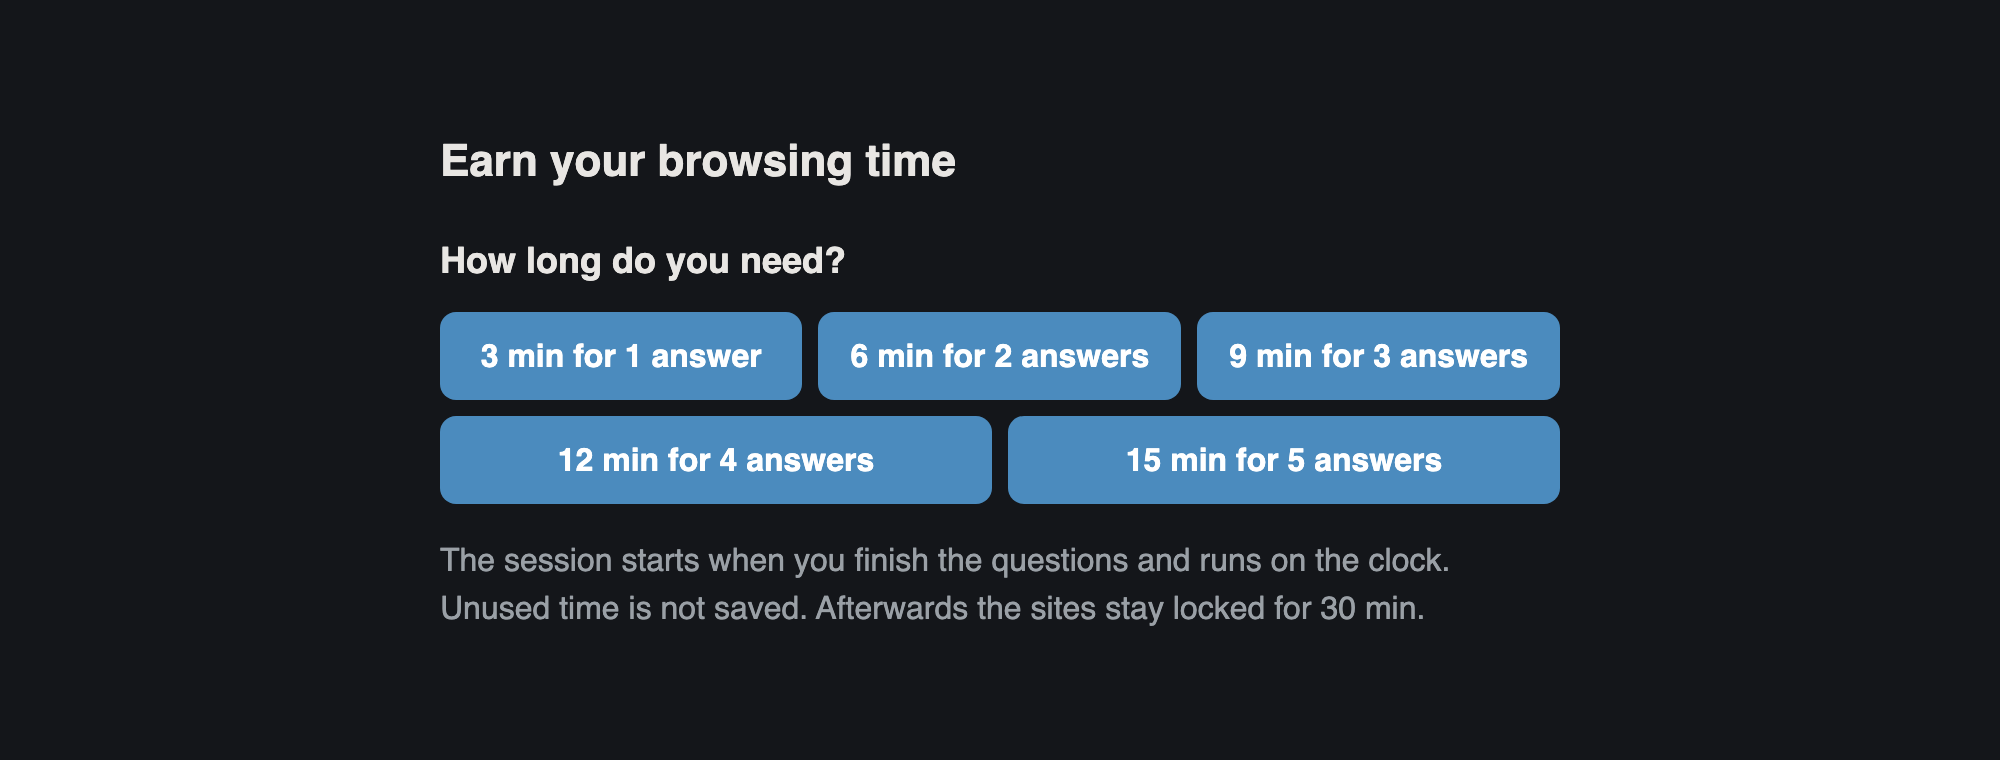
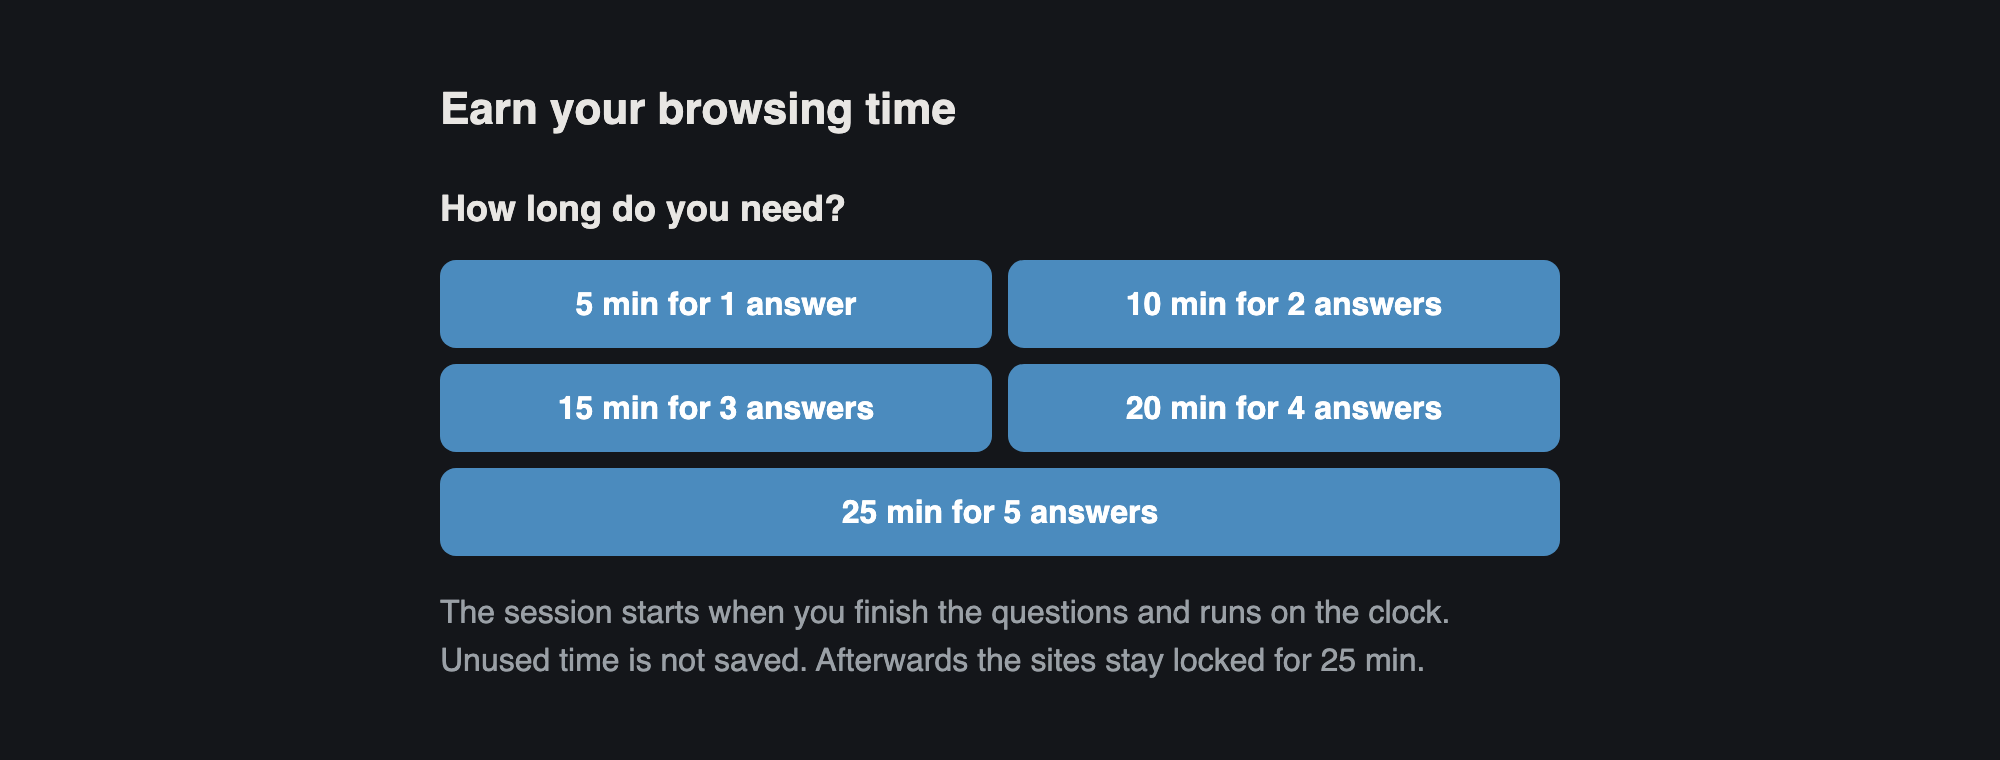
feat: gentler defaults and a softer challenge
- Default to 5 minutes per correct answer and a 25-minute cooldown
- Loosening the gate takes 3 correct answers in a row, with a second try per question
- README and screenshots updated; version 1.2

diff --git a/tests/smoke_test.js b/tests/smoke_test.js
@@ -1,7 +1,7 @@
 // Runs the quiz (content.js) and the popup (popup.js) against a fake page and a
 // fake chrome.storage, and checks the behaviour end to end: choosing a session,
 // retry, countdown, cooldown, daily limit, schedule, harder questions, the
-// toolbar badge, the 5-in-a-row challenge and backups. Needs only Node. Run from anywhere: node tests/smoke_test.js
+// toolbar badge, the 3-in-a-row challenge and backups. Needs only Node. Run from anywhere: node tests/smoke_test.js
 const fs = require("fs"), path = require("path"), vm = require("vm"), assert = require("assert");
 const ext = path.resolve(__dirname, "..");
 const read = (f) => fs.readFileSync(`${ext}/${f}`, "utf8");
@@ -69,7 +69,7 @@ const settle = () => new Promise((r) => setImmediate(r));
 
 (async () => {
   // ---------- content.js ----------
-  const store = { minutes: 3 };
+  const store = { minutes: 3, cooldown: 30 };
   const env = makeEnv(store);
   load(env, ["sites.js", "questions.js", "content.js"]);
   // remember the last question asked, so the test can answer it correctly
@@ -220,7 +220,7 @@ const settle = () => new Promise((r) => setImmediate(r));
   assert.equal(env2.created.length, 0, "no overlay on unlisted site");
 
   // ---------- popup.js ----------
-  const pstore = { minutes: 3, dailyCap: 30, stats: { weights: {}, recent: { Lists: "1101" }, harder: ["Lists"], days: {} } };
+  const pstore = { minutes: 3, cooldown: 30, dailyCap: 30, stats: { weights: {}, recent: { Lists: "1101" }, harder: ["Lists"], days: {} } };
   const penv = makeEnv(pstore, { url: "https://www.example.org/page" });
   load(penv, ["sites.js", "questions.js", "popup.js"]);
   await settle();
@@ -248,7 +248,7 @@ const settle = () => new Promise((r) => setImmediate(r));
   $("save").fire("click"); await settle();
   assert.equal(pstore.minutes, 2); assert.equal(pstore.dailyCap, 20); assert(penv.closed);
 
-  // loosening needs 5 in a row; a miss restarts the count
+  // loosening needs 3 in a row; each question allows a second try, and two misses restart the count
   const p2 = makeEnv(pstore, { url: "https://www.youtube.com/" });
   load(p2, ["sites.js", "questions.js", "popup.js"]);
   await settle();
@@ -260,17 +260,25 @@ const settle = () => new Promise((r) => setImmediate(r));
   assert($2("main").hidden && !$2("challenge").hidden, "challenge shown");
   assert.equal(pstore.minutes, 2, "not saved yet");
   const reply = (right) => { $2("challenge-input").value = right ? p2.__q.accept[0] : "wrong!"; $2("challenge-form").fire("submit"); };
+  const shown = () => $2("challenge-progress").textContent;
   $2("challenge-form").fire("submit"); // empty: ignored
-  // first question was asked before the wrapper existed; miss it to move on
-  reply(false); assert(/0 of 5/.test($2("challenge-progress").textContent));
+  // the first question was asked before the wrapper existed, so miss it twice to move on
+  reply(false);
+  assert.equal($2("challenge-feedback").textContent, "Not quite. Try once more.");
+  reply(false);
+  assert(/The count restarts/.test($2("challenge-feedback").textContent));
   $2("challenge-form").fire("submit"); // next question
-  reply(true); reply(true); reply(true); reply(false);
-  assert(/0 of 5/.test($2("challenge-progress").textContent));
+  reply(true); reply(true);
+  assert.equal(shown(), "2 of 3 in a row");
+  reply(false); reply(false);
+  assert.equal(shown(), "0 of 3 in a row", "two misses restart the count");
   $2("challenge-form").fire("submit");
-  for (let i = 0; i < 4; i++) reply(true);
-  assert.equal(pstore.minutes, 2, "4 in a row is not enough");
+  reply(true);
+  reply(false); reply(true);
+  assert.equal(shown(), "2 of 3 in a row", "a right second try keeps the run going");
+  assert.equal(pstore.minutes, 2, "2 in a row is not enough");
   reply(true); await settle();
-  assert.equal(pstore.minutes, 10, "saved after 5 in a row");
+  assert.equal(pstore.minutes, 10, "saved after 3 in a row");
 
   // removing a site also needs the challenge
   const p3 = makeEnv(pstore, { url: "https://www.youtube.com/" });

diff --git a/popup.js b/popup.js
@@ -2,24 +2,26 @@
 // progress and manage the block list.
 
 const $ = (id) => document.getElementById(id);
-const STREAK_NEEDED = 5; // correct answers in a row needed to loosen the gate
+const STREAK_NEEDED = 3; // correct answers in a row needed to loosen the gate
 
 let state;
 
 // Shows a short quiz in place of the popup. `apply` runs only after
-// STREAK_NEEDED correct answers in a row; a wrong answer restarts the count.
+// STREAK_NEEDED correct answers in a row. As in the main quiz, each question
+// allows a second try; two misses on one question restart the count.
 function challenge(what, apply) {
-  let run = 0, question, showingAnswer = false;
+  let run = 0, question, phase; // phase: "ask" (first try), "retry" (second try) or "shown" (answer revealed)
   $("main").hidden = true;
   $("challenge").hidden = false;
   $("challenge-what").textContent = `To ${what}.`;
 
   const ask = () => {
     question = makeQuestion(state.onlyTopics, state.stats.weights, state.stats.harder);
-    showingAnswer = false;
+    phase = "ask";
     $("challenge-prompt").textContent = promptFor(question);
     $("challenge-code").textContent = question.code;
     $("challenge-input").value = "";
+    $("challenge-feedback").textContent = "";
     $("challenge-submit").textContent = "Check";
     $("challenge-progress").textContent = `${run} of ${STREAK_NEEDED} in a row`;
     $("challenge-input").focus();
@@ -27,19 +29,20 @@ function challenge(what, apply) {
 
   $("challenge-form").addEventListener("submit", (event) => {
     event.preventDefault();
-    if (showingAnswer) {
-      $("challenge-feedback").textContent = "";
-      return ask();
-    }
+    if (phase === "shown") return ask();
     if (!$("challenge-input").value.trim()) return;
 
     if (isCorrect($("challenge-input").value, question.accept)) {
       run++;
-      $("challenge-feedback").textContent = "";
       return run === STREAK_NEEDED ? apply() : ask();
     }
+    if (phase === "ask") {
+      phase = "retry";
+      $("challenge-feedback").textContent = "Not quite. Try once more.";
+      return $("challenge-input").select();
+    }
     run = 0;
-    showingAnswer = true;
+    phase = "shown";
     $("challenge-feedback").textContent = `Not quite, ${answerLabel(question)}: ${question.answer}\nThe count restarts.`;
     $("challenge-submit").textContent = "Next question";
     $("challenge-progress").textContent = `0 of ${STREAK_NEEDED} in a row`;

diff --git a/popup.html b/popup.html
@@ -57,7 +57,7 @@
     <div class="row"><span class="hours">From <input id="from" type="time"> to <input id="to" type="time"></span></div>
     <div class="row"><label><input id="weekdays" type="checkbox"> Monday to Friday only</label></div>
     <button id="save" class="small">Save settings</button>
-    <p class="hint">Loosening the gate (more minutes, a shorter cooldown, a higher limit, fewer gated hours, removing a site) takes 5 correct answers in a row.</p>
+    <p class="hint">Loosening the gate (more minutes, a shorter cooldown, a higher limit, fewer gated hours, removing a site) takes 3 correct answers in a row.</p>
 
     <h2>Topics</h2>
     <p class="hint">Tick topics to practise only those. With none ticked, questions come from all topics. Scores cover your last 20 answers per topic. At 17 right, harder questions join in, and each counts as two answers.</p>
@@ -72,7 +72,7 @@
   </div>
 
   <div id="challenge" hidden>
-    <h1>Answer 5 in a row</h1>
+    <h1>Answer 3 in a row</h1>
     <p id="challenge-what" class="muted"></p>
     <h2 id="challenge-prompt"></h2>
     <pre id="challenge-code"></pre>

diff --git a/sites.js b/sites.js
@@ -6,8 +6,8 @@ const DEFAULT_SITES = ["x.com", "twitter.com", "youtube.com", "uol.com.br", "red
 // Everything the extension keeps in Chrome's local storage, with starting values.
 const DEFAULTS = {
   sites: DEFAULT_SITES,
-  minutes: 3,        // session minutes bought by each correct answer
-  cooldown: 30,      // minutes the sites stay locked after a session; 0 means none
+  minutes: 5,        // session minutes bought by each correct answer
+  cooldown: 25,      // minutes the sites stay locked after a session; 0 means none
   sessionEnd: 0,     // time (ms) when the current or last session ends
   used: { day: "", ms: 0 },  // session time started on that day, for the daily limit
   dailyCap: 0,       // most minutes of browsing per day; 0 means no limit

diff --git a/README.md b/README.md
@@ -11,11 +11,11 @@ The idea comes from a [post by @keysmashbandit](https://x.com/keysmashbandit/sta
 ## How it works
 
 - A blocked site opens behind a full-page screen that asks how long you need
-- Each length has a price in correct answers. By default 1 answer buys 3 minutes, up to 15 minutes for 5 answers
+- Each length has a price in correct answers. By default 1 answer buys 5 minutes, up to 25 minutes for 5 answers
 - After a wrong answer you get one more try, and a right answer there still counts. After a second miss the quiz shows the answer with a one-line explanation
 - The session starts when you finish the questions and runs on the clock, with a countdown in the bottom-right corner
 - Leaving the site does not pause the session, and unused time is not saved
-- When the session ends, every blocked site locks for a 30-minute cooldown. No quiz is offered during it
+- When the session ends, every blocked site locks for a 25-minute cooldown. No quiz is offered during it
 - All blocked sites share the same session and cooldown
 - On a blocked site, the toolbar icon shows the minutes left: blue for the session, grey for the cooldown
 
@@ -47,15 +47,15 @@ Click the Python Gate icon to open the popup. Change the settings there, then pr
 
 | Setting | Default | What it does |
 |---------|---------|--------------|
-| Minutes per correct answer | 3 | Session time bought by each correct answer, from 1 to 60 |
-| Cooldown after a session | 30 | Minutes the sites stay locked after a session. 0 means no cooldown |
+| Minutes per correct answer | 5 | Session time bought by each correct answer, from 1 to 60 |
+| Cooldown after a session | 25 | Minutes the sites stay locked after a session. 0 means no cooldown |
 | Daily browsing limit | none | Most session minutes you can start per day |
 | Gate only during set hours | off | Hours when the gate is on. When off, the gate is always on |
 | Monday to Friday only | off | Leaves weekends open. It applies when set hours are on |
 
 The set hours can run past midnight, such as 22:00 to 06:00. Outside them, blocked sites open normally.
 
-Changes that tighten the gate save at once. Changes that loosen it take 5 correct answers in a row:
+Changes that tighten the gate save at once. Changes that loosen it take 3 correct answers in a row, with a second try allowed on each question:
 
 - more minutes per answer
 - a shorter cooldown
@@ -132,7 +132,7 @@ Chrome switches extensions off in Incognito windows unless you allow them, so th
 | Script | What it checks | Needs |
 |--------|----------------|-------|
 | `tests/check_answers.py` | Runs 300 versions of every question in real Python and compares the output with the extension's answer. Also checks topic selection, progress rules and the schedule | Node, pandas, NumPy, Matplotlib |
-| `tests/smoke_test.js` | Runs the quiz and the popup against a simulated page: choosing a session, retry, countdown, cooldown, daily limit, schedule, the toolbar badge, the 5-in-a-row rule and backups | Node |
+| `tests/smoke_test.js` | Runs the quiz and the popup against a simulated page: choosing a session, retry, countdown, cooldown, daily limit, schedule, the toolbar badge, the 3-in-a-row rule and backups | Node |
 
 ```bash
 python3 tests/check_answers.py
